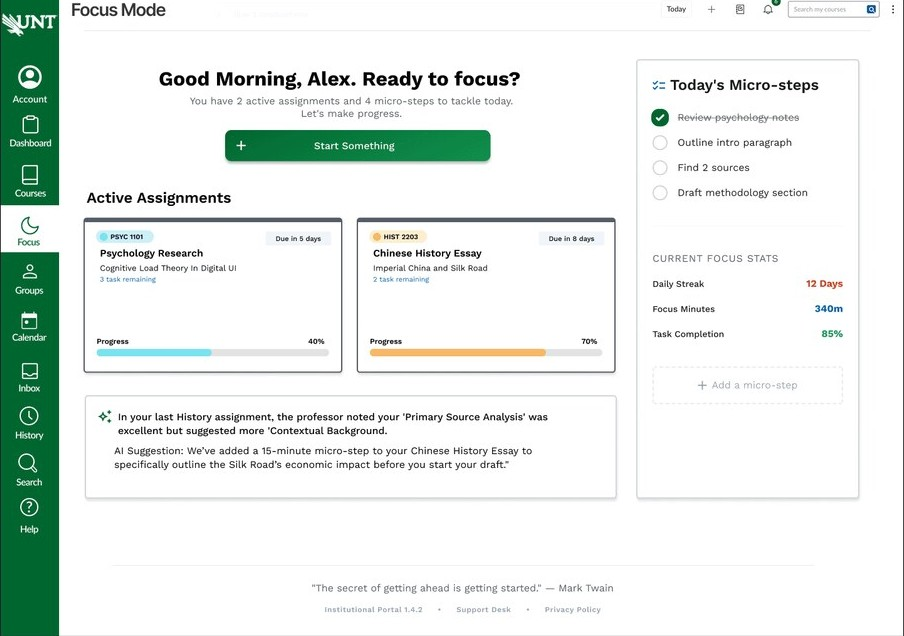
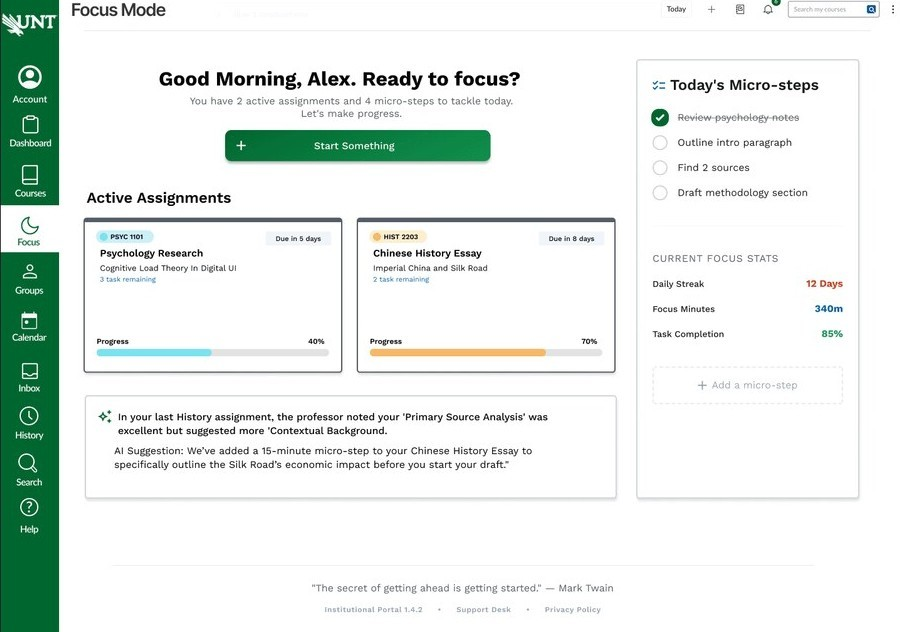
Fix mobile/tablet work cards, trim green screen edges, remove clipped walkthrough slide
Claude-Session: https://claude.ai/code/session_01Q15aDGEYXFoEASWKwULmjf

diff --git a/site/work/canvas/index.html b/site/work/canvas/index.html
@@ -14,14 +14,14 @@
 <link rel="apple-touch-icon" href="../../assets/favicon.png">
 <link rel="preload" href="../../assets/fonts/unbounded-latin-400-normal.woff2" as="font" type="font/woff2" crossorigin>
 <link rel="preload" href="../../assets/fonts/schibsted-grotesk-latin-wght-normal.woff2" as="font" type="font/woff2" crossorigin>
-<link rel="stylesheet" href="../../assets/css/site.css?v=mwwtpgh9">
+<link rel="stylesheet" href="../../assets/css/site.css?v=mwwtt7dz">
 <script>(function(d){var h=d.documentElement;h.classList.add('js');try{if(!('onpagereveal' in window)&&sessionStorage.getItem('pt')){h.classList.add('is-entering')}}catch(e){}setTimeout(function(){h.classList.add('reveal-ready');h.classList.remove('is-entering')},3000)})(document);</script>
 <script defer src="../../assets/vendor/gsap.min.js"></script>
 <script defer src="../../assets/vendor/ScrollTrigger.min.js"></script>
 <script defer src="../../assets/vendor/SplitText.min.js"></script>
 <script defer src="../../assets/vendor/Flip.min.js"></script>
 <script defer src="../../assets/vendor/lenis.min.js"></script>
-<script defer src="../../assets/js/site.js?v=mwwtpgh9"></script>
+<script defer src="../../assets/js/site.js?v=mwwtt7dz"></script>
 </head>
 <body class="page-case">
 <a class="skip" href="#main">Skip to content</a>
@@ -188,47 +188,40 @@
 <p data-reveal="rise">The <b>final</b> screens, with the <b>green sidebar</b>, move the same flow into UNT’s Canvas theme. The layout stayed the same. Color, navigation, and spacing were tuned so Focus Mode looks like part of the school’s own Canvas.</p>
 <div class="cscar glass" data-reveal="rise"><p class="label cscar__label">Final design · green sidebar</p>
       <div class="car" data-car>
-        <div class="car__track" tabindex="0" aria-label="Final design · green sidebar"><div class="car__slide" role="group" aria-roledescription="slide" aria-label="1 of 5"><figure class="fig "  style="--ar:1.4104">
+        <div class="car__track" tabindex="0" aria-label="Final design · green sidebar"><div class="car__slide" role="group" aria-roledescription="slide" aria-label="1 of 5"><figure class="fig "  style="--ar:1.4130">
   <button class="fig__btn" type="button" data-view data-title="Dashboard with the Focus entry point in the UNT sidebar." data-pages="../../assets/img/canvas/full/v2-1.jpg" data-download="RoslyTavarez_canvas_v2-1.jpg" data-dl-href="../../assets/img/canvas/full/v2-1.jpg" aria-label="Open image full size: Dashboard with the Focus entry point in the UNT sidebar.">
-    <span class="fig__frame" style="aspect-ratio:897/636"><img class="" src="../../assets/img/canvas/v2-1.webp" width="897" height="636" alt="Dashboard with the Focus entry point in the UNT sidebar." loading="lazy" decoding="async" sizes="(min-width: 1100px) 60vw, 100vw"></span>
+    <span class="fig__frame" style="aspect-ratio:893/632"><img class="" src="../../assets/img/canvas/v2-1.webp" width="893" height="632" alt="Dashboard with the Focus entry point in the UNT sidebar." loading="lazy" decoding="async" sizes="(min-width: 1100px) 60vw, 100vw"></span>
     <span class="fig__hint" aria-hidden="true"><svg class="i" viewBox="0 0 16 16" width="16" height="16" aria-hidden="true"><path d="M2 6V2h4M14 6V2h-4M2 10v4h4M14 10v4h-4" fill="none" stroke="currentColor" stroke-width="1.4"/></svg></span>
   </button>
   <figcaption>Dashboard with the Focus entry point in the UNT sidebar.</figcaption>
-</figure></div><div class="car__slide" role="group" aria-roledescription="slide" aria-label="2 of 5"><figure class="fig "  style="--ar:1.4214">
+</figure></div><div class="car__slide" role="group" aria-roledescription="slide" aria-label="2 of 5"><figure class="fig "  style="--ar:1.4241">
   <button class="fig__btn" type="button" data-view data-title="Focus Mode home: micro-steps, active assignments, and a contextual AI suggestion." data-pages="../../assets/img/canvas/full/v2-2.jpg" data-download="RoslyTavarez_canvas_v2-2.jpg" data-dl-href="../../assets/img/canvas/full/v2-2.jpg" aria-label="Open image full size: Focus Mode home: micro-steps, active assignments, and a contextual AI suggestion.">
-    <span class="fig__frame" style="aspect-ratio:904/636"><img class="" src="../../assets/img/canvas/v2-2.webp" width="904" height="636" alt="Focus Mode home: micro-steps, active assignments, and a contextual AI suggestion." loading="lazy" decoding="async" sizes="(min-width: 1100px) 60vw, 100vw"></span>
+    <span class="fig__frame" style="aspect-ratio:900/632"><img class="" src="../../assets/img/canvas/v2-2.webp" width="900" height="632" alt="Focus Mode home: micro-steps, active assignments, and a contextual AI suggestion." loading="lazy" decoding="async" sizes="(min-width: 1100px) 60vw, 100vw"></span>
     <span class="fig__hint" aria-hidden="true"><svg class="i" viewBox="0 0 16 16" width="16" height="16" aria-hidden="true"><path d="M2 6V2h4M14 6V2h-4M2 10v4h4M14 10v4h-4" fill="none" stroke="currentColor" stroke-width="1.4"/></svg></span>
   </button>
   <figcaption>Focus Mode home: micro-steps, active assignments, and a contextual AI suggestion.</figcaption>
-</figure></div><div class="car__slide" role="group" aria-roledescription="slide" aria-label="3 of 5"><figure class="fig "  style="--ar:1.4104">
+</figure></div><div class="car__slide" role="group" aria-roledescription="slide" aria-label="3 of 5"><figure class="fig "  style="--ar:1.4130">
   <button class="fig__btn" type="button" data-view data-title="Creating a focus plan, with the feeling check-in." data-pages="../../assets/img/canvas/full/v2-3.jpg" data-download="RoslyTavarez_canvas_v2-3.jpg" data-dl-href="../../assets/img/canvas/full/v2-3.jpg" aria-label="Open image full size: Creating a focus plan, with the feeling check-in.">
-    <span class="fig__frame" style="aspect-ratio:897/636"><img class="" src="../../assets/img/canvas/v2-3.webp" width="897" height="636" alt="Creating a focus plan, with the feeling check-in." loading="lazy" decoding="async" sizes="(min-width: 1100px) 60vw, 100vw"></span>
+    <span class="fig__frame" style="aspect-ratio:893/632"><img class="" src="../../assets/img/canvas/v2-3.webp" width="893" height="632" alt="Creating a focus plan, with the feeling check-in." loading="lazy" decoding="async" sizes="(min-width: 1100px) 60vw, 100vw"></span>
     <span class="fig__hint" aria-hidden="true"><svg class="i" viewBox="0 0 16 16" width="16" height="16" aria-hidden="true"><path d="M2 6V2h4M14 6V2h-4M2 10v4h4M14 10v4h-4" fill="none" stroke="currentColor" stroke-width="1.4"/></svg></span>
   </button>
   <figcaption>Creating a focus plan, with the feeling check-in.</figcaption>
-</figure></div><div class="car__slide" role="group" aria-roledescription="slide" aria-label="4 of 5"><figure class="fig "  style="--ar:1.4214">
+</figure></div><div class="car__slide" role="group" aria-roledescription="slide" aria-label="4 of 5"><figure class="fig "  style="--ar:1.4241">
   <button class="fig__btn" type="button" data-view data-title="Roadmap and timer, with AI-curated micro-steps." data-pages="../../assets/img/canvas/full/v2-4.jpg" data-download="RoslyTavarez_canvas_v2-4.jpg" data-dl-href="../../assets/img/canvas/full/v2-4.jpg" aria-label="Open image full size: Roadmap and timer, with AI-curated micro-steps.">
-    <span class="fig__frame" style="aspect-ratio:904/636"><img class="" src="../../assets/img/canvas/v2-4.webp" width="904" height="636" alt="Roadmap and timer, with AI-curated micro-steps." loading="lazy" decoding="async" sizes="(min-width: 1100px) 60vw, 100vw"></span>
+    <span class="fig__frame" style="aspect-ratio:900/632"><img class="" src="../../assets/img/canvas/v2-4.webp" width="900" height="632" alt="Roadmap and timer, with AI-curated micro-steps." loading="lazy" decoding="async" sizes="(min-width: 1100px) 60vw, 100vw"></span>
     <span class="fig__hint" aria-hidden="true"><svg class="i" viewBox="0 0 16 16" width="16" height="16" aria-hidden="true"><path d="M2 6V2h4M14 6V2h-4M2 10v4h4M14 10v4h-4" fill="none" stroke="currentColor" stroke-width="1.4"/></svg></span>
   </button>
   <figcaption>Roadmap and timer, with AI-curated micro-steps.</figcaption>
-</figure></div><div class="car__slide" role="group" aria-roledescription="slide" aria-label="5 of 5"><figure class="fig "  style="--ar:1.9051">
+</figure></div><div class="car__slide" role="group" aria-roledescription="slide" aria-label="5 of 5"><figure class="fig "  style="--ar:1.9128">
   <button class="fig__btn" type="button" data-view data-title="Insights beside the draft in Google Docs." data-pages="../../assets/img/canvas/full/v2-5.jpg" data-download="RoslyTavarez_canvas_v2-5.jpg" data-dl-href="../../assets/img/canvas/full/v2-5.jpg" aria-label="Open image full size: Insights beside the draft in Google Docs.">
-    <span class="fig__frame" style="aspect-ratio:903/474"><img class="" src="../../assets/img/canvas/v2-5.webp" width="903" height="474" alt="Insights beside the draft in Google Docs." loading="lazy" decoding="async" sizes="(min-width: 1100px) 60vw, 100vw"></span>
+    <span class="fig__frame" style="aspect-ratio:899/470"><img class="" src="../../assets/img/canvas/v2-5.webp" width="899" height="470" alt="Insights beside the draft in Google Docs." loading="lazy" decoding="async" sizes="(min-width: 1100px) 60vw, 100vw"></span>
     <span class="fig__hint" aria-hidden="true"><svg class="i" viewBox="0 0 16 16" width="16" height="16" aria-hidden="true"><path d="M2 6V2h4M14 6V2h-4M2 10v4h4M14 10v4h-4" fill="none" stroke="currentColor" stroke-width="1.4"/></svg></span>
   </button>
   <figcaption>Insights beside the draft in Google Docs.</figcaption>
 </figure></div></div>
         <div class="car__bar"><button type="button" class="car__btn" data-prev aria-label="Previous screen"><svg class="i" viewBox="0 0 16 16" width="16" height="16" aria-hidden="true"><path d="M14 8H3m0 0 4-4M3 8l4 4" fill="none" stroke="currentColor" stroke-width="1.4"/></svg></button><span class="car__count" aria-live="polite"><b data-cur>1</b> / 5</span><button type="button" class="car__btn" data-next aria-label="Next screen"><svg class="i" viewBox="0 0 16 16" width="16" height="16" aria-hidden="true"><path d="M2 8h11m0 0L9 4m4 4-4 4" fill="none" stroke="currentColor" stroke-width="1.4"/></svg></button></div>
-        <div class="car__thumbs"><button type="button" class="car__thumb" data-go="0" aria-label="Show screen 1: Dashboard with the Focus entry point in the UNT sidebar." aria-current="true"><img class="" src="../../assets/img/canvas/v2-1.webp" width="897" height="636" alt="" loading="lazy" decoding="async" sizes="90px"></button><button type="button" class="car__thumb" data-go="1" aria-label="Show screen 2: Focus Mode home: micro-steps, active assignments, and a contextual AI suggestion." ><img class="" src="../../assets/img/canvas/v2-2.webp" width="904" height="636" alt="" loading="lazy" decoding="async" sizes="90px"></button><button type="button" class="car__thumb" data-go="2" aria-label="Show screen 3: Creating a focus plan, with the feeling check-in." ><img class="" src="../../assets/img/canvas/v2-3.webp" width="897" height="636" alt="" loading="lazy" decoding="async" sizes="90px"></button><button type="button" class="car__thumb" data-go="3" aria-label="Show screen 4: Roadmap and timer, with AI-curated micro-steps." ><img class="" src="../../assets/img/canvas/v2-4.webp" width="904" height="636" alt="" loading="lazy" decoding="async" sizes="90px"></button><button type="button" class="car__thumb" data-go="4" aria-label="Show screen 5: Insights beside the draft in Google Docs." ><img class="" src="../../assets/img/canvas/v2-5.webp" width="903" height="474" alt="" loading="lazy" decoding="async" sizes="90px"></button></div>
+        <div class="car__thumbs"><button type="button" class="car__thumb" data-go="0" aria-label="Show screen 1: Dashboard with the Focus entry point in the UNT sidebar." aria-current="true"><img class="" src="../../assets/img/canvas/v2-1.webp" width="893" height="632" alt="" loading="lazy" decoding="async" sizes="90px"></button><button type="button" class="car__thumb" data-go="1" aria-label="Show screen 2: Focus Mode home: micro-steps, active assignments, and a contextual AI suggestion." ><img class="" src="../../assets/img/canvas/v2-2.webp" width="900" height="632" alt="" loading="lazy" decoding="async" sizes="90px"></button><button type="button" class="car__thumb" data-go="2" aria-label="Show screen 3: Creating a focus plan, with the feeling check-in." ><img class="" src="../../assets/img/canvas/v2-3.webp" width="893" height="632" alt="" loading="lazy" decoding="async" sizes="90px"></button><button type="button" class="car__thumb" data-go="3" aria-label="Show screen 4: Roadmap and timer, with AI-curated micro-steps." ><img class="" src="../../assets/img/canvas/v2-4.webp" width="900" height="632" alt="" loading="lazy" decoding="async" sizes="90px"></button><button type="button" class="car__thumb" data-go="4" aria-label="Show screen 5: Insights beside the draft in Google Docs." ><img class="" src="../../assets/img/canvas/v2-5.webp" width="899" height="470" alt="" loading="lazy" decoding="async" sizes="90px"></button></div>
       </div></div>
-<figure class="fig " data-reveal="fig" style="--ar:1.7778">
-  <button class="fig__btn" type="button" data-view data-title="Design walkthrough: Canvas integration, the “how are you feeling?” check-in, and actionable micro-steps." data-pages="../../assets/img/canvas/full/walkthrough.jpg" data-download="RoslyTavarez_canvas_walkthrough.jpg" data-dl-href="../../assets/img/canvas/full/walkthrough.jpg" aria-label="Open image full size: Design walkthrough: Canvas integration, the “how are you feeling?” check-in, and actionable micro-steps.">
-    <span class="fig__frame" style="aspect-ratio:1600/900"><img class="" src="../../assets/img/canvas/walkthrough.webp" width="1600" height="900" alt="Design walkthrough: Canvas integration, the “how are you feeling?” check-in, and actionable micro-steps." loading="lazy" decoding="async" sizes="(min-width: 1100px) 60vw, 100vw"></span>
-    <span class="fig__hint" aria-hidden="true"><svg class="i" viewBox="0 0 16 16" width="16" height="16" aria-hidden="true"><path d="M2 6V2h4M14 6V2h-4M2 10v4h4M14 10v4h-4" fill="none" stroke="currentColor" stroke-width="1.4"/></svg></span>
-  </button>
-  <figcaption>Design walkthrough: Canvas integration, the “how are you feeling?” check-in, and actionable micro-steps.</figcaption>
-</figure>
   </section><section class="cs__sec" id="testing" data-step="testing">
     <p class="label"><span class="cs__num">08</span> Testing</p>
     <h2 data-reveal="rise">Six students, one big copy change.</h2>

diff --git a/site/work/choretap/index.html b/site/work/choretap/index.html
@@ -14,14 +14,14 @@
 <link rel="apple-touch-icon" href="../../assets/favicon.png">
 <link rel="preload" href="../../assets/fonts/unbounded-latin-400-normal.woff2" as="font" type="font/woff2" crossorigin>
 <link rel="preload" href="../../assets/fonts/schibsted-grotesk-latin-wght-normal.woff2" as="font" type="font/woff2" crossorigin>
-<link rel="stylesheet" href="../../assets/css/site.css?v=mwwtpgh9">
+<link rel="stylesheet" href="../../assets/css/site.css?v=mwwtt7dz">
 <script>(function(d){var h=d.documentElement;h.classList.add('js');try{if(!('onpagereveal' in window)&&sessionStorage.getItem('pt')){h.classList.add('is-entering')}}catch(e){}setTimeout(function(){h.classList.add('reveal-ready');h.classList.remove('is-entering')},3000)})(document);</script>
 <script defer src="../../assets/vendor/gsap.min.js"></script>
 <script defer src="../../assets/vendor/ScrollTrigger.min.js"></script>
 <script defer src="../../assets/vendor/SplitText.min.js"></script>
 <script defer src="../../assets/vendor/Flip.min.js"></script>
 <script defer src="../../assets/vendor/lenis.min.js"></script>
-<script defer src="../../assets/js/site.js?v=mwwtpgh9"></script>
+<script defer src="../../assets/js/site.js?v=mwwtt7dz"></script>
 </head>
 <body class="page-case">
 <a class="skip" href="#main">Skip to content</a>

diff --git a/site/work/closet/index.html b/site/work/closet/index.html
@@ -14,14 +14,14 @@
 <link rel="apple-touch-icon" href="../../assets/favicon.png">
 <link rel="preload" href="../../assets/fonts/unbounded-latin-400-normal.woff2" as="font" type="font/woff2" crossorigin>
 <link rel="preload" href="../../assets/fonts/schibsted-grotesk-latin-wght-normal.woff2" as="font" type="font/woff2" crossorigin>
-<link rel="stylesheet" href="../../assets/css/site.css?v=mwwtpgh9">
+<link rel="stylesheet" href="../../assets/css/site.css?v=mwwtt7dz">
 <script>(function(d){var h=d.documentElement;h.classList.add('js');try{if(!('onpagereveal' in window)&&sessionStorage.getItem('pt')){h.classList.add('is-entering')}}catch(e){}setTimeout(function(){h.classList.add('reveal-ready');h.classList.remove('is-entering')},3000)})(document);</script>
 <script defer src="../../assets/vendor/gsap.min.js"></script>
 <script defer src="../../assets/vendor/ScrollTrigger.min.js"></script>
 <script defer src="../../assets/vendor/SplitText.min.js"></script>
 <script defer src="../../assets/vendor/Flip.min.js"></script>
 <script defer src="../../assets/vendor/lenis.min.js"></script>
-<script defer src="../../assets/js/site.js?v=mwwtpgh9"></script>
+<script defer src="../../assets/js/site.js?v=mwwtt7dz"></script>
 </head>
 <body class="page-case">
 <a class="skip" href="#main">Skip to content</a>

diff --git a/site/work/freshroute/index.html b/site/work/freshroute/index.html
@@ -14,14 +14,14 @@
 <link rel="apple-touch-icon" href="../../assets/favicon.png">
 <link rel="preload" href="../../assets/fonts/unbounded-latin-400-normal.woff2" as="font" type="font/woff2" crossorigin>
 <link rel="preload" href="../../assets/fonts/schibsted-grotesk-latin-wght-normal.woff2" as="font" type="font/woff2" crossorigin>
-<link rel="stylesheet" href="../../assets/css/site.css?v=mwwtpgh9">
+<link rel="stylesheet" href="../../assets/css/site.css?v=mwwtt7dz">
 <script>(function(d){var h=d.documentElement;h.classList.add('js');try{if(!('onpagereveal' in window)&&sessionStorage.getItem('pt')){h.classList.add('is-entering')}}catch(e){}setTimeout(function(){h.classList.add('reveal-ready');h.classList.remove('is-entering')},3000)})(document);</script>
 <script defer src="../../assets/vendor/gsap.min.js"></script>
 <script defer src="../../assets/vendor/ScrollTrigger.min.js"></script>
 <script defer src="../../assets/vendor/SplitText.min.js"></script>
 <script defer src="../../assets/vendor/Flip.min.js"></script>
 <script defer src="../../assets/vendor/lenis.min.js"></script>
-<script defer src="../../assets/js/site.js?v=mwwtpgh9"></script>
+<script defer src="../../assets/js/site.js?v=mwwtt7dz"></script>
 </head>
 <body class="page-case">
 <a class="skip" href="#main">Skip to content</a>

diff --git a/site/work/reverdi/index.html b/site/work/reverdi/index.html
@@ -14,14 +14,14 @@
 <link rel="apple-touch-icon" href="../../assets/favicon.png">
 <link rel="preload" href="../../assets/fonts/unbounded-latin-400-normal.woff2" as="font" type="font/woff2" crossorigin>
 <link rel="preload" href="../../assets/fonts/schibsted-grotesk-latin-wght-normal.woff2" as="font" type="font/woff2" crossorigin>
-<link rel="stylesheet" href="../../assets/css/site.css?v=mwwtpgh9">
+<link rel="stylesheet" href="../../assets/css/site.css?v=mwwtt7dz">
 <script>(function(d){var h=d.documentElement;h.classList.add('js');try{if(!('onpagereveal' in window)&&sessionStorage.getItem('pt')){h.classList.add('is-entering')}}catch(e){}setTimeout(function(){h.classList.add('reveal-ready');h.classList.remove('is-entering')},3000)})(document);</script>
 <script defer src="../../assets/vendor/gsap.min.js"></script>
 <script defer src="../../assets/vendor/ScrollTrigger.min.js"></script>
 <script defer src="../../assets/vendor/SplitText.min.js"></script>
 <script defer src="../../assets/vendor/Flip.min.js"></script>
 <script defer src="../../assets/vendor/lenis.min.js"></script>
-<script defer src="../../assets/js/site.js?v=mwwtpgh9"></script>
+<script defer src="../../assets/js/site.js?v=mwwtt7dz"></script>
 </head>
 <body class="page-case">
 <a class="skip" href="#main">Skip to content</a>

diff --git a/site/about/index.html b/site/about/index.html
@@ -14,14 +14,14 @@
 <link rel="apple-touch-icon" href="../assets/favicon.png">
 <link rel="preload" href="../assets/fonts/unbounded-latin-400-normal.woff2" as="font" type="font/woff2" crossorigin>
 <link rel="preload" href="../assets/fonts/schibsted-grotesk-latin-wght-normal.woff2" as="font" type="font/woff2" crossorigin>
-<link rel="stylesheet" href="../assets/css/site.css?v=mwwtpgh9">
+<link rel="stylesheet" href="../assets/css/site.css?v=mwwtt7dz">
 <script>(function(d){var h=d.documentElement;h.classList.add('js');try{if(!('onpagereveal' in window)&&sessionStorage.getItem('pt')){h.classList.add('is-entering')}}catch(e){}setTimeout(function(){h.classList.add('reveal-ready');h.classList.remove('is-entering')},3000)})(document);</script>
 <script defer src="../assets/vendor/gsap.min.js"></script>
 <script defer src="../assets/vendor/ScrollTrigger.min.js"></script>
 <script defer src="../assets/vendor/SplitText.min.js"></script>
 <script defer src="../assets/vendor/Flip.min.js"></script>
 <script defer src="../assets/vendor/lenis.min.js"></script>
-<script defer src="../assets/js/site.js?v=mwwtpgh9"></script>
+<script defer src="../assets/js/site.js?v=mwwtt7dz"></script>
 </head>
 <body class="page-about">
 <a class="skip" href="#main">Skip to content</a>

diff --git a/site/play/index.html b/site/play/index.html
@@ -14,14 +14,14 @@
 <link rel="apple-touch-icon" href="../assets/favicon.png">
 <link rel="preload" href="../assets/fonts/unbounded-latin-400-normal.woff2" as="font" type="font/woff2" crossorigin>
 <link rel="preload" href="../assets/fonts/schibsted-grotesk-latin-wght-normal.woff2" as="font" type="font/woff2" crossorigin>
-<link rel="stylesheet" href="../assets/css/site.css?v=mwwtpgh9">
+<link rel="stylesheet" href="../assets/css/site.css?v=mwwtt7dz">
 <script>(function(d){var h=d.documentElement;h.classList.add('js');try{if(!('onpagereveal' in window)&&sessionStorage.getItem('pt')){h.classList.add('is-entering')}}catch(e){}setTimeout(function(){h.classList.add('reveal-ready');h.classList.remove('is-entering')},3000)})(document);</script>
 <script defer src="../assets/vendor/gsap.min.js"></script>
 <script defer src="../assets/vendor/ScrollTrigger.min.js"></script>
 <script defer src="../assets/vendor/SplitText.min.js"></script>
 <script defer src="../assets/vendor/Flip.min.js"></script>
 <script defer src="../assets/vendor/lenis.min.js"></script>
-<script defer src="../assets/js/site.js?v=mwwtpgh9"></script>
+<script defer src="../assets/js/site.js?v=mwwtt7dz"></script>
 </head>
 <body class="page-about">
 <a class="skip" href="#main">Skip to content</a>

diff --git a/site/index.html b/site/index.html
@@ -14,14 +14,14 @@
 <link rel="apple-touch-icon" href="./assets/favicon.png">
 <link rel="preload" href="./assets/fonts/unbounded-latin-400-normal.woff2" as="font" type="font/woff2" crossorigin>
 <link rel="preload" href="./assets/fonts/schibsted-grotesk-latin-wght-normal.woff2" as="font" type="font/woff2" crossorigin>
-<link rel="stylesheet" href="./assets/css/site.css?v=mwwtpgh9">
+<link rel="stylesheet" href="./assets/css/site.css?v=mwwtt7dz">
 <script>(function(d){var h=d.documentElement;h.classList.add('js');try{if(!('onpagereveal' in window)&&sessionStorage.getItem('pt')){h.classList.add('is-entering')}}catch(e){}setTimeout(function(){h.classList.add('reveal-ready');h.classList.remove('is-entering')},3000)})(document);</script>
 <script defer src="./assets/vendor/gsap.min.js"></script>
 <script defer src="./assets/vendor/ScrollTrigger.min.js"></script>
 <script defer src="./assets/vendor/SplitText.min.js"></script>
 <script defer src="./assets/vendor/Flip.min.js"></script>
 <script defer src="./assets/vendor/lenis.min.js"></script>
-<script defer src="./assets/js/site.js?v=mwwtpgh9"></script>
+<script defer src="./assets/js/site.js?v=mwwtt7dz"></script>
 </head>
 <body class="page-home">
 <a class="skip" href="#main">Skip to content</a>

diff --git a/site/404.html b/site/404.html
@@ -14,14 +14,14 @@
 <link rel="apple-touch-icon" href="/assets/favicon.png">
 <link rel="preload" href="/assets/fonts/unbounded-latin-400-normal.woff2" as="font" type="font/woff2" crossorigin>
 <link rel="preload" href="/assets/fonts/schibsted-grotesk-latin-wght-normal.woff2" as="font" type="font/woff2" crossorigin>
-<link rel="stylesheet" href="/assets/css/site.css?v=mwwtpgh9">
+<link rel="stylesheet" href="/assets/css/site.css?v=mwwtt7dz">
 <script>(function(d){var h=d.documentElement;h.classList.add('js');try{if(!('onpagereveal' in window)&&sessionStorage.getItem('pt')){h.classList.add('is-entering')}}catch(e){}setTimeout(function(){h.classList.add('reveal-ready');h.classList.remove('is-entering')},3000)})(document);</script>
 <script defer src="/assets/vendor/gsap.min.js"></script>
 <script defer src="/assets/vendor/ScrollTrigger.min.js"></script>
 <script defer src="/assets/vendor/SplitText.min.js"></script>
 <script defer src="/assets/vendor/Flip.min.js"></script>
 <script defer src="/assets/vendor/lenis.min.js"></script>
-<script defer src="/assets/js/site.js?v=mwwtpgh9"></script>
+<script defer src="/assets/js/site.js?v=mwwtt7dz"></script>
 </head>
 <body class="page-nf">
 <a class="skip" href="#main">Skip to content</a>

diff --git a/site/assets/css/site.css b/site/assets/css/site.css
@@ -390,9 +390,10 @@ html.js.reveal-ready .cs__title { visibility: visible; }
   .hero { grid-template-columns: 1fr; min-height: auto; padding-top: calc(var(--head-h) + 4vh); }
   .hero__art { max-width: 460px; width: 100%; justify-self: center; }
   .posters { grid-template-columns: 1fr; }
-  .poster__link { aspect-ratio: 1 / 1.12; }
+  .poster__link { aspect-ratio: auto; height: clamp(360px, 62vw, 460px); }
   .poster__text { right: 7%; }
-  .poster .gfolder { left: 30%; top: 44%; }
+  .poster .gfolder { left: 7%; right: 7%; top: 47%; bottom: 19%; }
+  .poster__foot { bottom: 5%; }
   .cs__head { grid-template-columns: 1fr; }
   .cs__art { max-width: 420px; width: 100%; justify-self: center; }
   .figrow--2, .figrow--3 { grid-template-columns: 1fr; }
